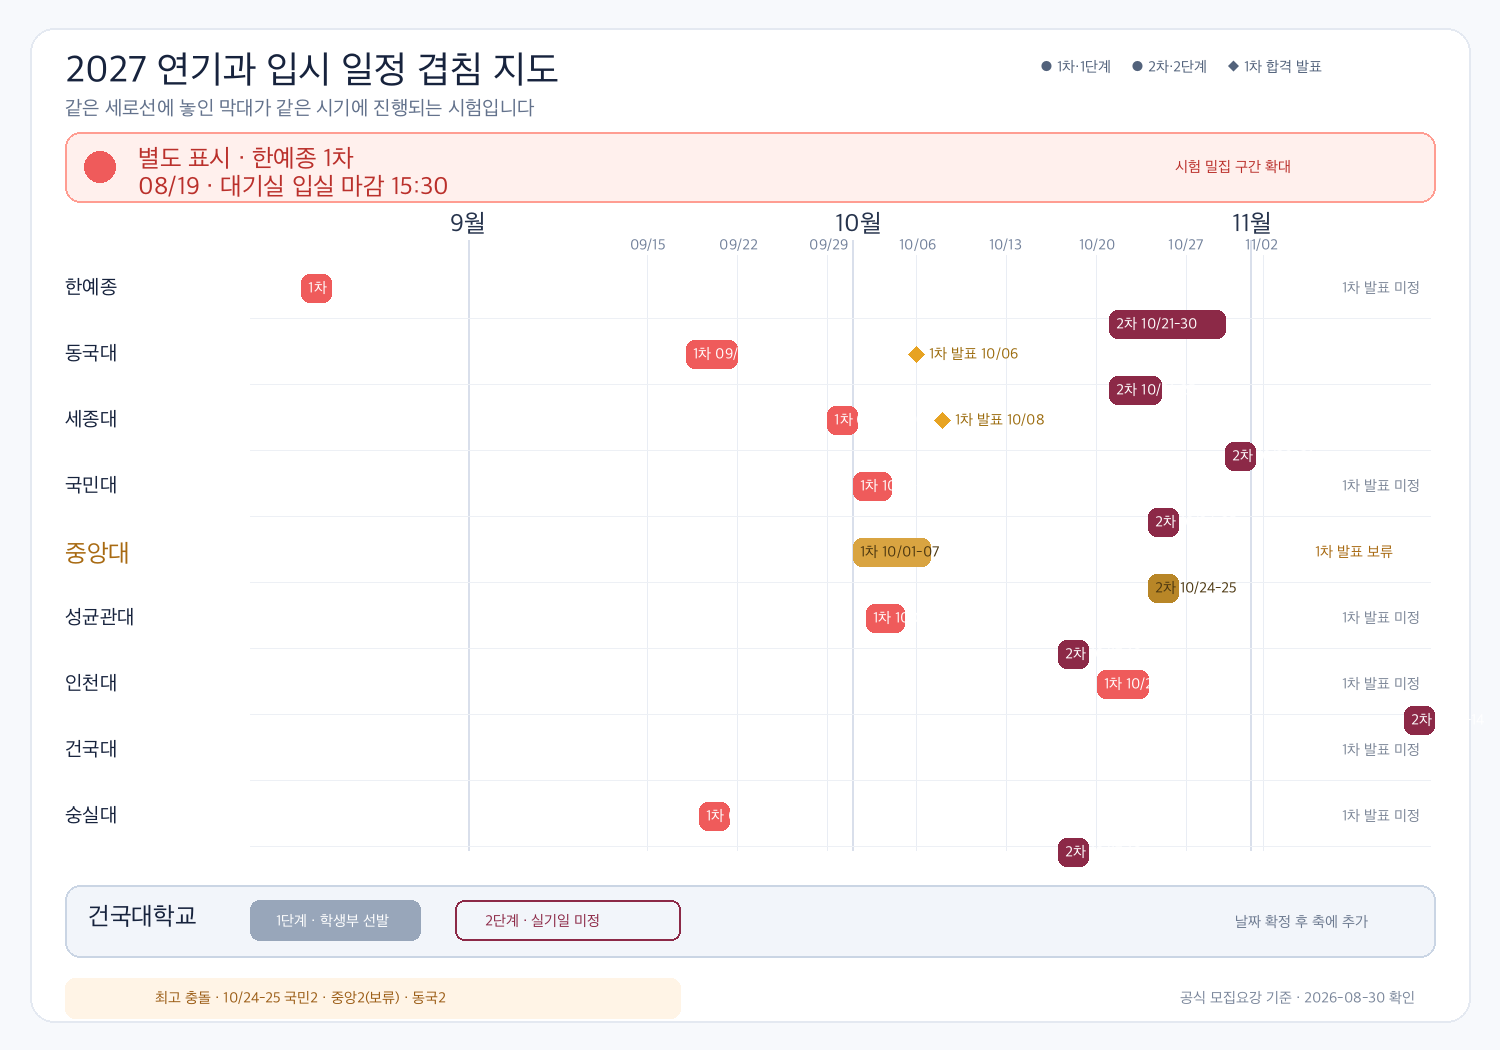
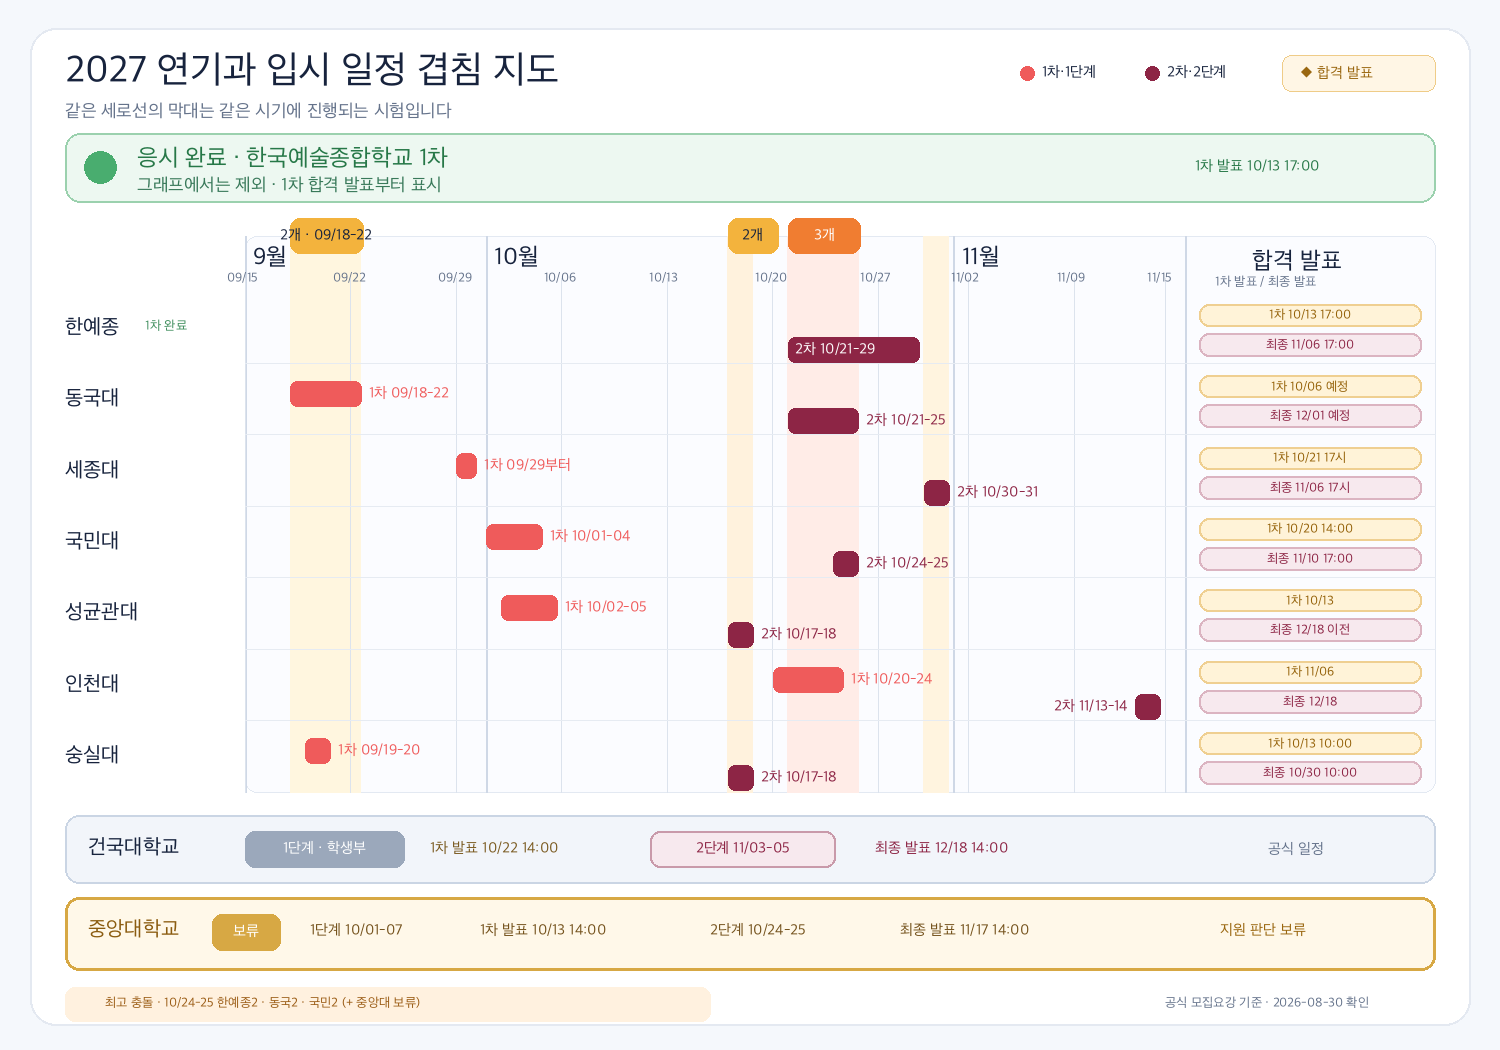
vault backup: 2026-08-30 20:33:05

diff --git a/정리/입시/2027 연기과 시험 일정 그래프.md b/정리/입시/2027 연기과 시험 일정 그래프.md
@@ -1,7 +1,7 @@
 ---
 type: dashboard
 admission_year: 2027
-scope: 연기과 입시 시험 일정 9개교 (가천대·서울예대 제외, 중앙대 보류)
+scope: 연기과 입시 8개교 + 중앙대 보류 (가천대·서울예대 제외)
 verified: 2026-08-30
 status: 공식 모집요강 기준, 개인 고사시간·정정 공지 재확인 필요
 tags: [입시/연기, 입시/일정, 2027학년도]
@@ -12,80 +12,78 @@ tags: [입시/연기, 입시/일정, 2027학년도]
 [[의상 및 헤어 등 이미지|← 입시 이미지 총괄 대시보드]] · [[2027 연기과 지정작품 총정리|지정작품 한눈에 보기]] · [[2027 연기과 학교별 내신 환산 및 5등급 비교|학교별 내신 영향 비교]] · [[2027 연기과 학교별 1·2차 실기 종목 정리|1·2차 실기 종목]]
 
 > [!note] 그래프 기준
-> 아래 Mermaid 그래프와 표, 그리고 새로 갱신한 겹침지도를 현재 기준 일정으로 사용한다.
+> 가천대학교와 서울예술대학교는 제외했다. 한국예술종합학교 1차는 응시 완료 상태이므로 시험 막대에서 제외하고 합격 발표부터 표시했다. 중앙대학교는 공식 일정은 기입하되 지원 판단 **보류** 상태로 맨 아래에 분리했다.
 
 ![[2027 연기과 이미지/첨부/2027 연기과 시험 일정-겹침지도.png|1000]]
 
-## 전체 타임라인 
+## 전체 타임라인
 
-> **학교 1차·1단계** · **🟤 학교 2차·2단계**  
+> **빨강: 1차·1단계** · **자주: 2차·2단계** · **노랑: 합격자 발표**
+
 ```mermaid
-%%{init: {"theme":"base","themeVariables":{"taskBkgColor":"#5B7FD6","taskBorderColor":"#3F61AD","critBkgColor":"#E45757","critBorderColor":"#B63A3A","doneTaskBkgColor":"#7B263D","doneTaskBorderColor":"#541729","doneTaskTextColor":"#FFFFFF"}}}%%
+%%{init: {"theme":"base","themeVariables":{"taskBkgColor":"#E45757","taskBorderColor":"#B63A3A","doneTaskBkgColor":"#7B263D","doneTaskBorderColor":"#541729","doneTaskTextColor":"#FFFFFF"}}}%%
 gantt
     title 2027학년도 연기과 수시·예술사 실기 일정
     dateFormat  YYYY-MM-DD
     axisFormat  %m/%d
 
-    section 개인 확정
-    한예종 1차 · 15시 30분 입실 마감 :crit, karts1, 2026-08-19, 1d
-
     section 1단계·1차
-    동국 1단계 · 지원 확정         :crit, dongguk1, 2026-09-18, 2026-09-23
-    세종 1단계 시작 · 지원 확정     :crit, sejong1, 2026-09-29, 1d
-    국민 1단계 · 지원 확정          :crit, kookmin1, 2026-10-01, 2026-10-05
-    성균관 1단계 · 지원 확정       :crit, skku1, 2026-10-02, 2026-10-06
-
-    section 중앙대 · 보류
-    중앙대 1단계 · 보류 일정        :crit, cau1, 2026-10-01, 2026-10-08
+    동국 1단계                    :crit, dongguk1, 2026-09-18, 2026-09-23
+    숭실 1단계                    :crit, ssu1, 2026-09-19, 2026-09-21
+    세종 1단계 시작               :crit, sejong1, 2026-09-29, 1d
+    국민 1단계                    :crit, kookmin1, 2026-10-01, 2026-10-05
+    성균관 1단계                  :crit, skku1, 2026-10-02, 2026-10-06
+    인천 1단계                    :crit, inu1, 2026-10-20, 2026-10-25
 
     section 2단계·2차
-    성균관 2단계 · 지원 확정       :done, skku2, 2026-10-17, 2026-10-19
-    한예종 2차 · 지원 확정         :done, karts2, 2026-10-21, 2026-10-30
-    동국 2단계 · 지원 확정         :done, dongguk2, 2026-10-21, 2026-10-26
-    국민 2단계 · 지원 확정          :done, kookmin2, 2026-10-24, 2026-10-26
-    세종 2단계 · 지원 확정          :done, sejong2, 2026-10-30, 2026-11-01
+    성균관 2단계                  :done, skku2, 2026-10-17, 2026-10-19
+    숭실 2단계                    :done, ssu2, 2026-10-17, 2026-10-19
+    한예종 2차                    :done, karts2, 2026-10-21, 2026-10-30
+    동국 2단계                    :done, dongguk2, 2026-10-21, 2026-10-26
+    국민 2단계                    :done, kookmin2, 2026-10-24, 2026-10-26
+    세종 2단계                    :done, sejong2, 2026-10-30, 2026-11-01
+    건국 2단계                    :done, konkuk2, 2026-11-03, 2026-11-06
+    인천 2단계                    :done, inu2, 2026-11-13, 2026-11-15
 
     section 중앙대 · 보류
-    중앙대 2단계 · 보류 일정        :done, cau2, 2026-10-24, 2026-10-26
-
-    section 합격자 발표
-    세종 최종합격자 발표 · 11/06 예정 :milestone, sejongpass, 2026-11-06, 0d
-    동국 최종합격자 발표 · 12/01 예정 :milestone, donggukpass, 2026-12-01, 0d
-    기타 대학 최종합격자 발표 · 12/18 이전 :milestone, passcommon, 2026-12-18, 0d
+    중앙대 1단계                  :crit, cau1, 2026-10-01, 2026-10-08
+    중앙대 2단계                  :done, cau2, 2026-10-24, 2026-10-26
 ```
 
 > [!danger] 가장 붐비는 구간: 10월 21일~25일
-> 한예종 2차·동국 2단계가 겹치고, 24~25일에는 국민 2단계까지 겹친다. 중앙대는 현재 보류 일정으로 별도 표시했으므로 공식 확정 시 충돌 여부를 다시 계산한다.
+> 10월 21~23일은 한예종 2차와 동국대 2단계가 겹친다. 24~25일에는 국민대 2단계까지 더해져 세 학교가 동시에 진행된다. 중앙대 보류 일정까지 포함하면 24~25일은 네 학교가 겹친다.
 
 ## 학교별 일정·합격자 발표표
 
 | 상태 | 학교 | 1차·1단계 시험 | 1차 합격 발표 | 2차·2단계 시험 | 최종 합격자 발표 |
 |---|---|---|---|---|---|
-| 확정 | 한예종 | 2026-08-19 (개인 입실 15:30) | 별도 확인 | 2026-10-21~10-30 | 모집요강상 별도 확인 |
+| 응시 완료 | 한예종 | 그래프에서 제외 | **2026-10-13 17:00** | **2026-10-21~10-29** | **2026-11-06 17:00** |
 | 확정 | 동국대 | 2026-09-18~09-22 | **2026-10-06 예정** | 2026-10-21~10-25 | **2026-12-01 예정** |
-| 확정 | 세종대 | 2026-09-29부터 | **2026-10-08** | 2026-10-30~10-31 | **2026-11-06 17시 이후** |
-| 확정 | 국민대 | 2026-10-01~10-04 | 별도 확인 | 2026-10-24~10-25 | 2026-12-18 이전 |
-| 보류 | 중앙대 | 2026-10-01~10-07 (보류) | 보류 | 2026-10-24~10-25 (보류) | 일정·발표일 보류 |
-| 확정 | 성균관대 | 2026-10-02~10-05 | 별도 확인 | 2026-10-17~10-18 | **2026-12-18 이전** |
-| 확정 | 인천대 | 2026-10-20~10-24 | 별도 확인 | 2026-11-13~11-14 | 2026-12-18 이전 |
-| 확정 | 건국대 | 학생부 1단계 (일정 미정) | 미정 | 2단계 고사일 미정 | 2026-12-18 이전 |
-| 확정 | 숭실대 | 2026-09-19~09-20 | 별도 확인 | 2026-10-17~10-18 | 2026-12-18 이전 |
+| 확정 | 세종대 | 2026-09-29부터 | **2026-10-21 17시 이후** | 2026-10-30~10-31 | **2026-11-06 17시 이후** |
+| 확정 | 국민대 | 2026-10-01~10-04 | **2026-10-20 14:00** | 2026-10-24~10-25 | **2026-11-10 17:00** |
+| 확정 | 성균관대 | 2026-10-02~10-05 | **2026-10-13** | 2026-10-17~10-18 | **2026-12-18 이전** |
+| 확정 | 인천대 | 2026-10-20~10-24 | **2026-11-06** | 2026-11-13~11-14 | **2026-12-18** |
+| 확정 | 건국대 | 학생부 1단계 | **2026-10-22 14:00 예정** | **2026-11-03~11-05** | **2026-12-18 14:00 예정** |
+| 확정 | 숭실대 | 2026-09-19~09-20 | **2026-10-13 10:00** | 2026-10-17~10-18 | **2026-10-30 10:00** |
+| **보류** | **중앙대** | **2026-10-01~10-07** | **2026-10-13 14:00** | **2026-10-24~10-25** | **2026-11-17 14:00** |
 
-> **합격자 발표 기준:** 모집요강에서 특정 일자를 확정한 경우 그대로 적었고, ‘~이전’만 제시한 경우 마감일을 적었다. 확인되지 않은 1차 발표는 ‘별도 확인/미정’으로 남겼다.
+> **합격자 발표 기준:** 날짜와 시각은 각 대학 2027학년도 공식 모집요강의 전형 일정표를 옮겼다. 모집요강이 ‘예정’ 또는 ‘이전’이라고 표시한 경우 그 표현도 그대로 유지했다. 성균관대 최종 발표는 공식 요강에 특정 날짜가 아니라 **2026-12-18 이전**으로만 안내되어 있어 임의로 하루를 정하지 않았다.
 
+## 일정 해석 메모
 
-## 날짜 미확정·재확인 항목
-
-- **중앙대:** 1·2단계 시험일과 합격자 발표일을 공식 확정 전까지 보류로 표시했다. 확정 모집요강·고사 안내가 나오면 보류 표기를 해제한다.
-- **세종 1단계:** 공식 모집요강에는 09-29 시작으로 안내되어 있다. 종료일과 본인 고사일은 수험생 유의사항에서 확정한다.
-- **건국 2단계:** 현재 확보한 공식 시행계획만으로 최종 실기일을 확정하지 않았다. 최종 수시 모집요강과 실기고사 안내 확인 후 그래프에 추가한다.
+- **한예종:** 1차 시험은 이미 응시했으므로 그래프에서 제외했다. 2차 종료일은 기존 10월 30일이 아니라 공식 모집요강상 **10월 29일**이다.
+- **세종대:** 1단계 합격 발표일을 기존 10월 8일에서 공식 일정인 **10월 21일 17시 이후**로 바로잡았다. 1단계 시험 종료일과 개인별 고사일은 수험생 유의사항에서 확인한다.
+- **중앙대:** 시험·발표일은 공식 모집요강에 확정되어 있지만 사용자의 지원 판단 상태가 보류이므로, 표의 마지막 행과 이미지 최하단에 따로 표시했다.
+- **개인 고사시간:** 학교가 고사 기간만 공지한 경우 실제 응시일·입실시간은 수험표 또는 추후 고사장 공지를 우선한다.
 
 ## 공식 출처
 
-- [한국예술종합학교 2027학년도 예술사과정 모집요강](https://karts.ac.kr/cop/bbs/selectBoardArticle.do?bbsId=BBSMSTR_000000000007&nttNo=69907&siteId=&sysTyCode=), 연기과 전형일정, 확인 2026-08-04
-- [동국대학교 2027학년도 수시모집요강](https://ipsi.dongguk.edu/upload/file/20260601115911UVEHWG.PDF), 확인 2026-08-04
-- [세종대학교 2027학년도 수시모집요강 공지](https://ipsi.sejong.ac.kr/sub_page/sub5/0107_view.asp?B_CATEGORY=0&B_CODE=BOARD_1455878015&IDX=1128&gotopage=1&search_category=&searchstring=&tab1=5), 확인 2026-08-04
-- [국민대학교 2027학년도 수시모집요강](https://admission.kookmin.ac.kr/nonschedule/notice.php?ctype=view&no=1070&page=1), 확인 2026-08-04
-- [중앙대학교 2027학년도 수시모집요강](https://admission.cau.ac.kr/file/pdfDown.pdf?ofn=%EC%A4%91%EC%95%99%EB%8C%80%ED%95%99%EA%B5%90_2027%ED%95%99%EB%85%84%EB%8F%84+%EC%88%98%EC%8B%9C%EB%AA%A8%EC%A7%91%EC%9A%94%EA%B0%95%28%EB%8B%A8%EB%A9%B4%29_%EA%B3%B5%EA%B3%A0%EC%9A%A9.pdf&sfn=20260609111455769_c6144e06ef38475d8ce9563f87b7f3b4.pdf), p.68, 확인 2026-08-30
-- [성균관대학교 2027학년도 수시모집요강](https://admission.skku.edu/upload/guide/20260529115520H43SMR.pdf), 확인 2026-08-04
-- [건국대학교 2027학년도 입학전형 시행계획](https://enter.konkuk.ac.kr/file/pdfDown.pdf?ofn=%5B%EC%B5%9C%EC%A2%85_%EB%86%8D%EC%96%B4%EC%B4%8C%EB%B0%98%EC%98%81%5D+2027+%EC%9E%85%ED%95%99%EC%A0%84%ED%98%95%EC%8B%9C%ED%96%89%EA%B3%84%ED%9A%8D_250714.pdf&sfn=20250714115345568_6455.pdf), 확인 2026-08-04
+- [한국예술종합학교 2027학년도 예술사과정 모집요강](https://www.karts.ac.kr/cmm/fms/FileDown.do?accAt=&atchFileId=FILE_000000000161996&bbsId=BBSMSTR_000000000007&fileSn=23&nttId=69907&trgetId=SYSTEM_DEFAULT_BOARD)
+- [동국대학교 2027학년도 수시모집요강](https://ipsi.dongguk.edu/upload/file/20260601115911UVEHWG.PDF)
+- [세종대학교 2027학년도 수시모집요강 공지](https://ipsi.sejong.ac.kr/sub_page/sub5/0107_view.asp?B_CATEGORY=0&B_CODE=BOARD_1455878015&IDX=1128&gotopage=1&search_category=&searchstring=&tab1=5)
+- [국민대학교 2027학년도 수시모집요강 PDF](https://admission.kookmin.ac.kr/datafiles/contents/%EA%B5%AD%EB%AF%BC%EB%8C%80%ED%95%99%EA%B5%90_2027%ED%95%99%EB%85%84%EB%8F%84_%EC%88%98%EC%8B%9C_%EB%AA%A8%EC%A7%91%EC%9A%94%EA%B0%95%282026.06.22%29.pdf)
+- [성균관대학교 2027학년도 수시모집요강](https://admission.skku.edu/upload/guide/20260529115520H43SMR.pdf)
+- [인천대학교 2027학년도 수시모집요강](https://admission.inu.ac.kr/file/download.do?sfn=20260608112433651_2027%ed%95%99%eb%85%84%eb%8f%84+%ec%9d%b8%ec%b2%9c%eb%8c%80%ed%95%99%ea%b5%90+%ec%88%98%ec%8b%9c%eb%aa%a8%ec%a7%91%ec%9a%94%ea%b0%95.pdf&ofn=2027%ed%95%99%eb%85%84%eb%8f%84+%ec%9d%b8%ec%b2%9c%eb%8c%80%ed%95%99%ea%b5%90+%ec%88%98%ec%8b%9c%eb%aa%a8%ec%a7%91%ec%9a%94%ea%b0%95.pdf)
+- [건국대학교 2027학년도 수시모집요강](https://enter.konkuk.ac.kr/file/pdfDown.pdf?ofn=2027%ED%95%99%EB%85%84%EB%8F%84+%EA%B1%B4%EA%B5%AD%EB%8C%80%ED%95%99%EA%B5%90+%EC%84%9C%EC%9A%B8%EC%BA%A0%ED%8D%BC%EC%8A%A4+%EC%88%98%EC%8B%9C%EB%AA%A8%EC%A7%91%EC%9A%94%EA%B0%95%28%EB%8B%A8%EB%A9%B4%29_20260513.pdf&sfn=20260526035352665_9631.pdf)
+- [숭실대학교 2027학년도 수시 모집요강](https://admission.ssu.ac.kr/mojip/req.asp?flag=1&page_no=1_2_2)
+- [중앙대학교 2027학년도 수시모집요강](https://admission.cau.ac.kr/file/pdfDown.pdf?ofn=%EC%A4%91%EC%95%99%EB%8C%80%ED%95%99%EA%B5%90_2027%ED%95%99%EB%85%84%EB%8F%84+%EC%88%98%EC%8B%9C%EB%AA%A8%EC%A7%91%EC%9A%94%EA%B0%95%28%EB%8B%A8%EB%A9%B4%29_%EA%B3%B5%EA%B3%A0%EC%9A%A9.pdf&sfn=20260609111455769_c6144e06ef38475d8ce9563f87b7f3b4.pdf)
